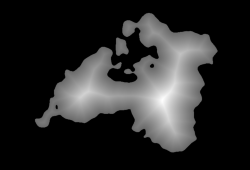
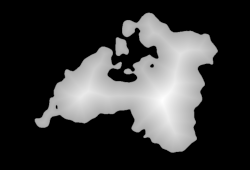
Fix color space issues.

Changed region(s): [[0.14, 0.0588, 0.868, 0.9118]]

diff --git a/docs/reference.html b/docs/reference.html
@@ -184,7 +184,7 @@ L250,250 L250,0 Z"></path> <path class="octo-arm" d="M128.3,109.0 C113.8,99.7 11
 C157.9,116.9 156.7,120.9 152.7,124.9 L141.0,136.5 C139.8,137.7
 141.6,141.9 141.8,141.8 Z" fill="currentColor"></path></svg></a>
 <style>.github-corner:hover svg { fill: #19529d }</style>
-<small>v0.0.1 ~ <a href="https://github.com/prideout/snowy/tree/5a41130">5a41130</a></small>
+<small>v0.0.1 ~ <a href="https://github.com/prideout/snowy/tree/03d2dbc">03d2dbc</a></small>
 <h1>Snowy <img height="64px" src="snowy2.png" style="vertical-align:text-bottom;margin-left:10px"/></h1>
 <p><a href="index.html">User's Guide</a> | <strong>API Reference</strong></p>
 <hr/>
@@ -204,6 +204,10 @@ C157.9,116.9 156.7,120.9 152.7,124.9 L141.0,136.5 C139.8,137.7
 <tr>
 <td><a href="#compose_premultiplied">compose_premultiplied</a></td>
 <td>Draw an image with premultiplied alpha over the destination.</td>
+<tr>
+<tr>
+<td><a href="#delinearize">delinearize</a></td>
+<td>Transform colors from physically linear to perceptually linear.</td>
 <tr>
 <tr>
 <td><a href="#ensure_alpha">ensure_alpha</a></td>
@@ -250,6 +254,10 @@ C157.9,116.9 156.7,120.9 152.7,124.9 L141.0,136.5 C139.8,137.7
 <td>Horizontally concatenate a list of images with a border.</td>
 <tr>
 <tr>
+<td><a href="#linearize">linearize</a></td>
+<td>Transform colors from perceptually linear to physically linear.</td>
+<tr>
+<tr>
 <td><a href="#load">load</a></td>
 <td>Create a numpy array from the given PNG, JPEG, or EXR image file.</td>
 <tr>
@@ -293,7 +301,7 @@ C157.9,116.9 156.7,120.9 152.7,124.9 L141.0,136.5 C139.8,137.7
 <td><a href="#vstack">vstack</a></td>
 <td>Vertically concatenate a list of images with a border.</td>
 <tr>
-</tr></tr></tr></tr></tr></tr></tr></tr></tr></tr></tr></tr></tr></tr></tr></tr></tr></tr></tr></tr></tr></tr></tr></tr></tr></tr></tr></tr></tr></tr></tr></tr></tr></tr></tr></tr></tr></tr></tr></tr></tr></tr></tr></tr></tr></tr></tr></tr></tr></tr></tr></tr></table>
+</tr></tr></tr></tr></tr></tr></tr></tr></tr></tr></tr></tr></tr></tr></tr></tr></tr></tr></tr></tr></tr></tr></tr></tr></tr></tr></tr></tr></tr></tr></tr></tr></tr></tr></tr></tr></tr></tr></tr></tr></tr></tr></tr></tr></tr></tr></tr></tr></tr></tr></tr></tr></tr></tr></tr></tr></table>
 <hr/>
 <h3 id="add_border"><a href="#add_border">add_border</a></h3>
 <p>
@@ -339,6 +347,15 @@ Draw an image with premultiplied alpha over the destination.
     <span class="k">if</span> <span class="n">dst</span><span class="o">.</span><span class="n">shape</span><span class="p">[</span><span class="mi">2</span><span class="p">]</span> <span class="o">==</span> <span class="mi">3</span><span class="p">:</span>
         <span class="k">return</span> <span class="n">extract_rgb</span><span class="p">(</span><span class="n">result</span><span class="p">)</span>
     <span class="k">return</span> <span class="n">result</span>
+</pre></div>
+<h3 id="delinearize"><a href="#delinearize">delinearize</a></h3>
+<p>
+Transform colors from physically linear to perceptually linear.  This is automatically performed when using <a href="#save">save</a> to a PNG or JPEG. See also <a href="#linearize">linearize</a>.
+</p>
+<div class="highlight"><pre><span></span><span class="k">def</span> <span class="nf">delinearize</span><span class="p">(</span><span class="n">image</span><span class="p">,</span> <span class="n">source_space</span><span class="o">=</span><span class="n">ColorSpace</span><span class="o">.</span><span class="n">SRGB</span><span class="p">):</span>
+    <span class="k">if</span> <span class="n">source_space</span> <span class="o">==</span> <span class="n">ColorSpace</span><span class="o">.</span><span class="n">SRGB</span><span class="p">:</span>
+        <span class="k">return</span> <span class="n">linear_to_sRGB</span><span class="p">(</span><span class="n">image</span><span class="p">)</span>
+    <span class="k">return</span> <span class="n">linear_to_gamma</span><span class="p">(</span><span class="n">image</span><span class="p">)</span>
 </pre></div>
 <h3 id="ensure_alpha"><a href="#ensure_alpha">ensure_alpha</a></h3>
 <p>
@@ -453,11 +470,20 @@ Horizontally concatenate a list of images with a border.  This is similar to num
     <span class="n">result</span><span class="o">.</span><span class="n">append</span><span class="p">(</span><span class="n">add_border</span><span class="p">(</span><span class="n">images</span><span class="p">[</span><span class="o">-</span><span class="mi">1</span><span class="p">],</span> <span class="n">T</span><span class="p">,</span> <span class="n">V</span><span class="p">))</span>
     <span class="k">return</span> <span class="n">np</span><span class="o">.</span><span class="n">hstack</span><span class="p">(</span><span class="n">result</span><span class="p">)</span>
 </pre></div>
+<h3 id="linearize"><a href="#linearize">linearize</a></h3>
+<p>
+Transform colors from perceptually linear to physically linear.  This is automatically performed when using <a href="#load">load</a> on a PNG or JPEG. See also <a href="#delinearize">delinearize</a>.
+</p>
+<div class="highlight"><pre><span></span><span class="k">def</span> <span class="nf">linearize</span><span class="p">(</span><span class="n">image</span><span class="p">,</span> <span class="n">target_space</span><span class="o">=</span><span class="n">ColorSpace</span><span class="o">.</span><span class="n">SRGB</span><span class="p">):</span>
+    <span class="k">if</span> <span class="n">target_space</span> <span class="o">==</span> <span class="n">ColorSpace</span><span class="o">.</span><span class="n">SRGB</span><span class="p">:</span>
+        <span class="k">return</span> <span class="n">sRGB_to_linear</span><span class="p">(</span><span class="n">image</span><span class="p">)</span>
+    <span class="k">return</span> <span class="n">gamma_to_linear</span><span class="p">(</span><span class="n">image</span><span class="p">)</span>
+</pre></div>
 <h3 id="load"><a href="#load">load</a></h3>
 <p>
 Create a numpy array from the given PNG, JPEG, or EXR image file.  Regardless of the pixel format on disk, PNG / JPEG images are always divided by 255.0 and extended to 4 color channels before being returned to the caller.  See also <a href="#reshape">reshape</a> (which this calls) and <a href="#save">save</a>.
 </p>
-<div class="highlight"><pre><span></span><span class="k">def</span> <span class="nf">load</span><span class="p">(</span><span class="n">filename</span><span class="p">:</span> <span class="nb">str</span><span class="p">):</span>
+<div class="highlight"><pre><span></span><span class="k">def</span> <span class="nf">load</span><span class="p">(</span><span class="n">filename</span><span class="p">:</span> <span class="nb">str</span><span class="p">)</span> <span class="o">-&gt;</span> <span class="n">np</span><span class="o">.</span><span class="n">ndarray</span><span class="p">:</span>
     <span class="k">assert</span> <span class="n">filename</span><span class="o">.</span><span class="n">endswith</span><span class="p">(</span><span class="s1">'.png'</span><span class="p">)</span> <span class="ow">or</span> <span class="n">filename</span><span class="o">.</span><span class="n">endswith</span><span class="p">(</span><span class="s1">'.jpeg'</span><span class="p">)</span> <span class="ow">or</span> \
             <span class="n">filename</span><span class="o">.</span><span class="n">endswith</span><span class="p">(</span><span class="s1">'.jpg'</span><span class="p">)</span> <span class="ow">or</span> <span class="n">filename</span><span class="o">.</span><span class="n">endswith</span><span class="p">(</span><span class="s1">'.exr'</span><span class="p">)</span>
     <span class="k">return</span> <span class="n">reshape</span><span class="p">(</span><span class="n">np</span><span class="o">.</span><span class="n">float64</span><span class="p">(</span><span class="n">_load</span><span class="p">(</span><span class="n">filename</span><span class="p">)))</span>
@@ -520,7 +546,7 @@ Export a numpy array to a PNG, JPEG, or EXR image file.  This function automatic
         <span class="n">image_format</span> <span class="o">=</span> <span class="s1">'EXR-FI'</span>
         <span class="n">image</span> <span class="o">=</span> <span class="n">np</span><span class="o">.</span><span class="n">float32</span><span class="p">(</span><span class="n">image</span><span class="p">)</span>
     <span class="k">else</span><span class="p">:</span>
-        <span class="n">image</span> <span class="o">=</span> <span class="n">np</span><span class="o">.</span><span class="n">uint8</span><span class="p">(</span><span class="n">np</span><span class="o">.</span><span class="n">clip</span><span class="p">(</span><span class="n">image</span> <span class="o">*</span> <span class="mi">255</span><span class="p">,</span> <span class="mi">0</span><span class="p">,</span> <span class="mi">255</span><span class="p">))</span>
+        <span class="n">image</span> <span class="o">=</span> <span class="n">_from_linear</span><span class="p">(</span><span class="n">image</span><span class="p">)</span>
     <span class="n">imageio</span><span class="o">.</span><span class="n">imwrite</span><span class="p">(</span><span class="n">filename</span><span class="p">,</span> <span class="n">unshape</span><span class="p">(</span><span class="n">image</span><span class="p">),</span> <span class="n">image_format</span><span class="p">)</span>
 </pre></div>
 <h3 id="show"><a href="#show">show</a></h3>

diff --git a/docs/index.html b/docs/index.html
@@ -184,7 +184,7 @@ L250,250 L250,0 Z"></path> <path class="octo-arm" d="M128.3,109.0 C113.8,99.7 11
 C157.9,116.9 156.7,120.9 152.7,124.9 L141.0,136.5 C139.8,137.7
 141.6,141.9 141.8,141.8 Z" fill="currentColor"></path></svg></a>
 <style>.github-corner:hover svg { fill: #19529d }</style>
-<small>v0.0.1 ~ <a href="https://github.com/prideout/snowy/tree/5a41130">5a41130</a></small>
+<small>v0.0.1 ~ <a href="https://github.com/prideout/snowy/tree/03d2dbc">03d2dbc</a></small>
 <h1>Snowy <img height="64px" src="snowy2.png" style="vertical-align:text-bottom;margin-left:10px"/></h1>
 <p><strong>User's Guide</strong> | <a href="reference.html">API Reference</a></p>
 <p>Snowy is a tiny module for manipulating and generating images.</p>

diff --git a/snowy/io.py b/snowy/io.py
@@ -6,6 +6,47 @@ import os
 import platform
 import tempfile
 
+from enum import Enum
+
+class ColorSpace(Enum):
+    LINEAR = 0
+    SRGB = 1
+    GAMMA = 2
+
+def sRGB_to_linear(s):
+   a = 0.055
+   return np.where(s <= 0.04045, s / 12.92, ((s+a) / (1+a)) ** 2.4)
+
+def linear_to_sRGB(s):
+   a = 0.055
+   return np.where(s <= 0.0031308, 12.92 * s, (1+a) * s**(1/2.4) - a)
+
+def gamma_to_linear(s):
+   return s ** 2.2
+
+def linear_to_gamma(s):
+   return s ** (1/2.2)
+
+def linearize(image, target_space=ColorSpace.SRGB):
+    """Transform colors from perceptually linear to physically linear.
+    
+    This is automatically performed when using <a href="#load">load</a>
+    on a PNG or JPEG. See also <a href="#delinearize">delinearize</a>.
+    """
+    if target_space == ColorSpace.SRGB:
+        return sRGB_to_linear(image)
+    return gamma_to_linear(image)
+
+def delinearize(image, source_space=ColorSpace.SRGB):
+    """Transform colors from physically linear to perceptually linear.
+    
+    This is automatically performed when using <a href="#save">save</a>
+    to a PNG or JPEG. See also <a href="#linearize">linearize</a>.
+    """
+    if source_space == ColorSpace.SRGB:
+        return linear_to_sRGB(image)
+    return linear_to_gamma(image)
+
 def show(image):
     """Display an image in a platform-specific way."""
     if isinstance(image, np.ndarray):
@@ -33,20 +74,27 @@ def unshape(image):
         return np.reshape(image, image.shape[:2])
     return image
 
+def _to_linear(image):
+    return linearize(np.clip(np.float64(image) / 255, 0, None))
+
+def _from_linear(image):
+    image = delinearize(np.clip(image, 0, None))
+    return np.uint8(np.clip(image * 255, 0, 255))
+
 def _load(filename: str):
     # PNG files are always loaded as RGBA because paletted byte-based
     # images with transparency are problematic. Moreover with Snowy we
     # expect the in-memory representation (floats) to not match the
     # on-disk representation (bytes).
     if filename.endswith('.png'):
-        return np.float64(imageio.imread(filename, 'PNG-PIL',
-                pilmode='RGBA')) / 255
+        return _to_linear(imageio.imread(filename, 'PNG-PIL',
+                pilmode='RGBA'))
     elif filename.endswith('.exr'):
         imageio.plugins.freeimage.download()
         return np.float64(imageio.imread(filename))
-    return np.float64(imageio.imread(filename)) / 255
+    return _to_linear(imageio.imread(filename))
 
-def load(filename: str):
+def load(filename: str) -> np.ndarray:
     """Create a numpy array from the given PNG, JPEG, or EXR image file.
 
     Regardless of the pixel format on disk, PNG / JPEG images are always
@@ -75,7 +123,7 @@ def save(image: np.ndarray, filename: str, image_format: str=None):
         image_format = 'EXR-FI'
         image = np.float32(image)
     else:
-        image = np.uint8(np.clip(image * 255, 0, 255))
+        image = _from_linear(image)
     imageio.imwrite(filename, unshape(image), image_format)
 
 def show_array(image: np.ndarray):

diff --git a/snowy/__init__.py b/snowy/__init__.py
@@ -11,33 +11,36 @@ NEAREST = filtering.NEAREST
 TRIANGLE = filtering.TRIANGLE
 
 from . import io
+delinearize = io.delinearize
+ensure_alpha = io.ensure_alpha
+extract_alpha = io.extract_alpha
+extract_rgb = io.extract_rgb
+from_planar = io.from_planar
+linearize = io.linearize
 load = io.load
 reshape = io.reshape
 save = io.save
 show = io.show
-unshape = io.unshape
-extract_alpha = io.extract_alpha
-extract_rgb = io.extract_rgb
 to_planar = io.to_planar
-from_planar = io.from_planar
-ensure_alpha = io.ensure_alpha
+unshape = io.unshape
+ColorSpace = io.ColorSpace
 
 from . import ops
 add_border = ops.add_border
-gradient = ops.gradient
-hstack = ops.hstack
-unitize = ops.unitize
-vstack = ops.vstack
-rotate = ops.rotate
-hflip = ops.hflip
-vflip = ops.vflip
 compose = ops.compose
 compose_premultiplied = ops.compose_premultiplied
+gradient = ops.gradient
+hflip = ops.hflip
+hstack = ops.hstack
+rotate = ops.rotate
+unitize = ops.unitize
+vflip = ops.vflip
+vstack = ops.vstack
 
 from . import distance
+generate_gdf = distance.generate_gdf
 generate_sdf = distance.generate_sdf
 generate_udf = distance.generate_udf
-generate_gdf = distance.generate_gdf
 
 from . import noise
 generate_noise = noise.generate_noise

diff --git a/README.md b/README.md
@@ -18,8 +18,6 @@ Painting and 2D paths are outside the scope of the library. See
 
 <!--
 
-  Fix color space issue apparent in tests/test.html
-
   Analytics
 
   Improve the island gen example
